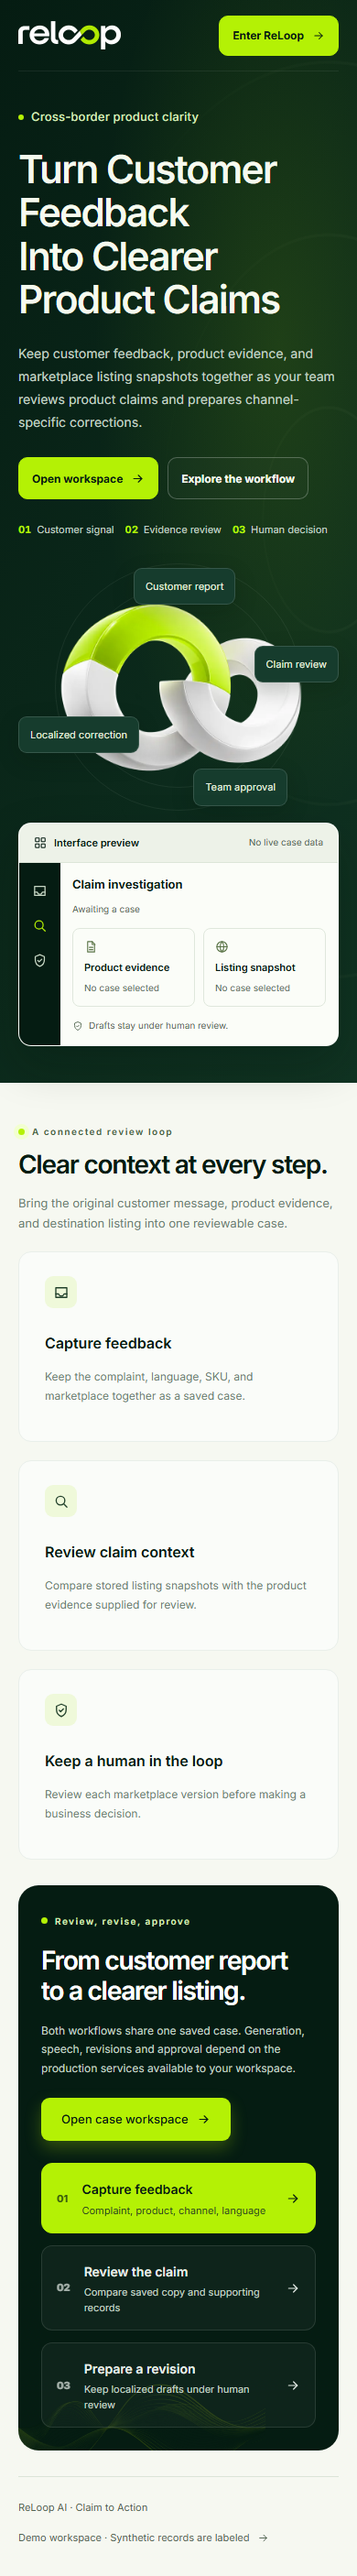
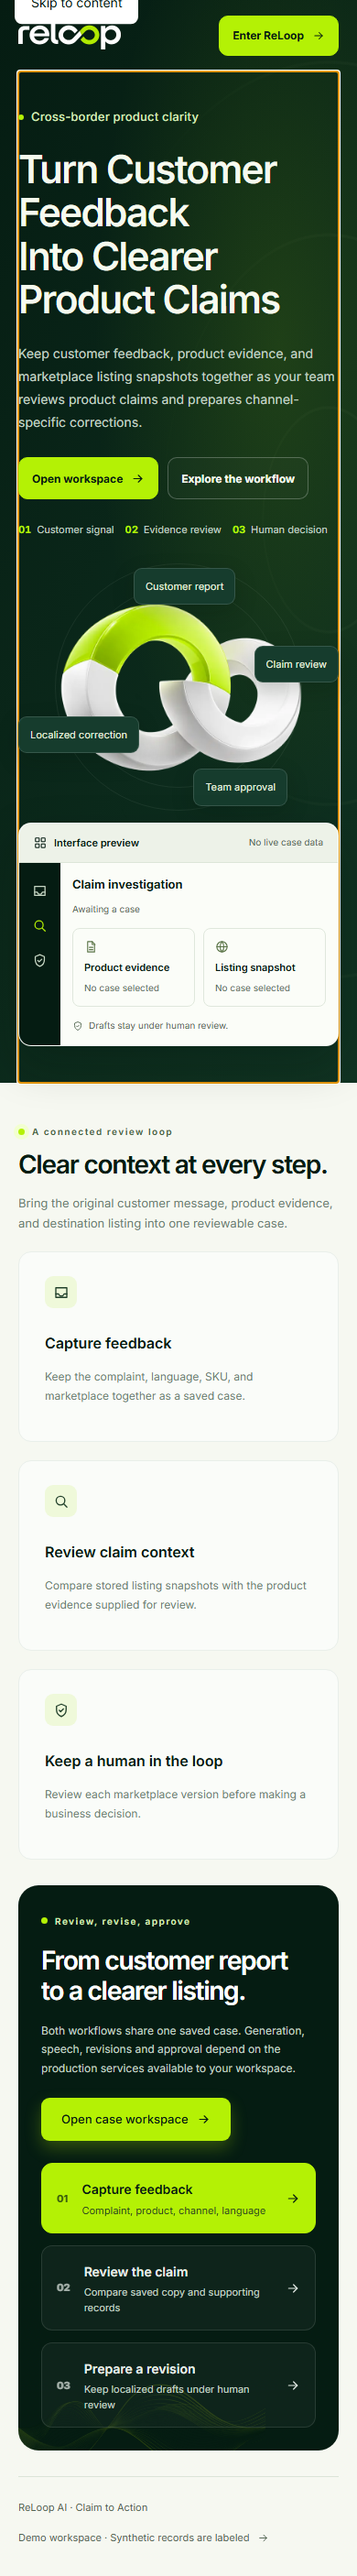
fix: make landing skip link bypass navigation

Changed region(s): [[0.0308, 0.0, 0.4, 0.4331], [0.9231, 0.0309, 0.9538, 0.4331]]

diff --git a/src/app/page.tsx b/src/app/page.tsx
@@ -8,7 +8,7 @@ export default function LandingPage() {
   return (
     <div className="reloop-ui landing-v2">
       <a className="landing-skip" href="#landing-content">Skip to content</a>
-      <main className="landing-main" id="landing-content" tabIndex={-1}>
+      <main className="landing-main">
       <div className="landing-hero-surface">
         <header className="marketing-nav">
           <Brand dark/>
@@ -23,7 +23,7 @@ export default function LandingPage() {
           </div>
         </header>
 
-        <section className="hero brand-hero" aria-labelledby="landing-title">
+        <section className="hero brand-hero" id="landing-content" tabIndex={-1} aria-labelledby="landing-title">
           <div className="brand-hero-copy">
             <div className="eyebrow"><span className="eyebrow-dot"/>Cross-border product clarity</div>
             <h1 className="display" id="landing-title">Turn Customer Feedback Into <span>Clearer Product Claims</span></h1>
